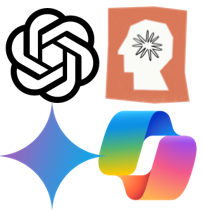
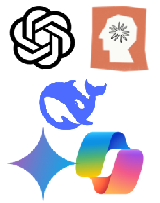
deepseek追加

diff --git a/src/main.rs b/src/main.rs
@@ -1,6 +1,6 @@
 extern crate rocket;
 use std::env;
-use std::path::{Path, PathBuf};
+use std::path::Path;
 use anyhow::Context;
 
 use chrono::{ DateTime, Utc };
@@ -35,6 +35,7 @@ struct WebContext {
     gemini: Vec<String>,
     copilot: Vec<String>,
     prompt: Vec<String>,
+    deepseek: Vec<String>,
     totalcount: i64,
     offset: i64,
     has_next: bool,
@@ -55,7 +56,7 @@ fn take_value_from_json(obj: &Value, key: &str) -> Result<i64, String> {
 fn take_value_from_json_with_line(data: &Value, key: &str) -> Vec<String> {
     data[key]
         .as_str()
-        .unwrap()
+        .unwrap_or("")
         .split('\n')
         .map(|s| {
             if s.is_empty() { "　".to_string() } else { s.to_string() }
@@ -70,7 +71,7 @@ async fn getdata_from_microcms(api_key: &str, offset: i64) -> Result<WebContext,
 
     // APIキーをヘッダーに設定
     let mut headers = HeaderMap::new();
-    headers.insert("X-API-KEY", api_key.parse().unwrap());
+    headers.insert("X-API-KEY", api_key.parse().expect("APIキーのパースに失敗しました"));
     //.parse()メソッドは、FromStrトレイトを実装している任意の型に対して使用できます。このメソッドは、Result型を返します。
 
     // HTTPクライアントを作成
@@ -81,18 +82,18 @@ async fn getdata_from_microcms(api_key: &str, offset: i64) -> Result<WebContext,
     if response.is_err() {
         return Err("APIエラー".to_string());
     }
-    let response = response.unwrap();
+    let response = response.expect("APIリクエストの送信に失敗しました");
 
     // コンテンツをJsonに解釈
     let value = response.json::<serde_json::Value>().await;
     if value.is_err() {
         return Err("JSONエラー".to_string());
     }
-    let value = value.unwrap();
+    let value = value.expect("JSONのパースに失敗しました");
 
     //記事の総数と現在位置を取得
-    let totalcount = take_value_from_json(&value, "totalCount").unwrap();
-    let offset = take_value_from_json(&value, "offset").unwrap();
+    let totalcount = take_value_from_json(&value, "totalCount").unwrap_or(0);
+    let offset = take_value_from_json(&value, "offset").unwrap_or(0);
 
     //（次ボタンや前ボタンの表示制御に使用）
     let has_prev = totalcount - offset > 1;
@@ -103,23 +104,37 @@ async fn getdata_from_microcms(api_key: &str, offset: i64) -> Result<WebContext,
     if body_data.is_none() {
         return Err("JSONエラー".to_string());
     }
-    let value = &body_data.unwrap()["contents"][0];
+    let contents = match body_data.expect("JSONオブジェクトの取得に失敗しました").get("contents") {
+        Some(contents) => contents,
+        None => return Err("コンテンツが見つかりません".to_string()),
+    };
+    if contents.as_array().expect("コンテンツの配列取得に失敗しました").is_empty() {
+        return Err("コンテンツが見つかりません".to_string());
+    }
+    let value = &contents[0];
 
     // 記事の日付をJSTに変換（日付データはISO 8601形式のUTC（協定世界時））
-    let datetime_str = &value["date"].as_str().unwrap().to_string();
-    let datetime_utc: DateTime<Utc> = datetime_str.parse().unwrap();
+    let datetime_str = match value["date"].as_str() {
+        Some(date) => date.to_string(),
+        None => return Err("Date not found in JSON".to_string()),
+    };
+    let datetime_utc: DateTime<Utc> = match datetime_str.parse() {
+        Ok(datetime) => datetime,
+        Err(_) => return Err("Failed to parse date".to_string()),
+    };
     let datetime_jst = datetime_utc.with_timezone(&Tokyo);
     let date_str = datetime_jst.format("%Y-%m-%d").to_string();
 
     // レスポンスの内容をセット
     let context = WebContext {
-        title: value["title"].as_str().unwrap().to_string(),
+        title: value["title"].as_str().unwrap_or("").to_string(),
         version: date_str.to_string(),
         chatgpt: take_value_from_json_with_line(&value, "ChatGPT"),
         claude: take_value_from_json_with_line(&value, "Claude"),
         gemini: take_value_from_json_with_line(&value, "Gemini"),
         copilot: take_value_from_json_with_line(&value, "Copilot"),
         prompt: take_value_from_json_with_line(&value, "prompt"),
+        deepseek: take_value_from_json_with_line(&value, "deepseek"),
         totalcount: totalcount,
         offset: offset,
         has_next: has_next,
@@ -132,13 +147,13 @@ async fn getdata_from_microcms(api_key: &str, offset: i64) -> Result<WebContext,
 #[get("/")]
 async fn index(state: &State<MyState>) -> Template {
     //最新記事（offset=0）を取得
-    let context = getdata_from_microcms(state.secret.as_str(), 0);
+    let context = match getdata_from_microcms(state.secret.as_str(), 0).await {
+        Ok(context) => context,
+        Err(message) => return Template::render("error", serde_json::json!({"message":message})),
+    };
 
     //ページ遷移
-    match context.await {
-        Ok(context) => Template::render("index", &context),
-        Err(message) => Template::render("error", serde_json::json!({"message":message})),
-    }
+    Template::render("index", &context)
 }
 
 // HTTP フォームデータ
@@ -160,13 +175,13 @@ async fn post_index(arg: Form<PostData>, state: &State<MyState>) -> Template {
     let offset = current_offset + (if direction == "next" { -1 } else { 1 });
 
     //記事データ取得
-    let context = getdata_from_microcms(state.secret.as_str(), offset);
+    let context = match getdata_from_microcms(state.secret.as_str(), offset).await {
+        Ok(context) => context,
+        Err(message) => return Template::render("error", serde_json::json!({"message":message})),
+    };
 
     //ページ遷移
-    match context.await {
-        Ok(context) => Template::render("index", &context),
-        Err(message) => Template::render("error", serde_json::json!({"message":message})),
-    }
+    Template::render("index", &context)
 }
 
 #[derive(FromForm)]
@@ -189,15 +204,12 @@ async fn api(query: GetRequestParam, state: &State<MyState>) -> Json<WebContext>
         _ => 0, // "now"の場合とそれ以外
     };
 
-    let context = getdata_from_microcms(state.secret.as_str(), offset);
-    match context.await {
-        Ok(context) => {
-            return Json(context);
-        }
-        Err(message) => {
-            return create_err_json_data(message);
-        }
-    }
+    let context = match getdata_from_microcms(state.secret.as_str(), offset).await {
+        Ok(context) => context,
+        Err(message) => return create_err_json_data(message),
+    };
+
+    Json(context)
 }
 
 fn create_err_json_data(reson: String) -> Json<WebContext> {
@@ -209,6 +221,7 @@ fn create_err_json_data(reson: String) -> Json<WebContext> {
         gemini: vec!["エラー".to_string()],
         copilot: vec!["エラー".to_string()],
         prompt: vec!["エラー".to_string()],
+        deepseek: vec!["エラー".to_string()],
         totalcount: 0,
         offset: 0,
         has_next: false,
